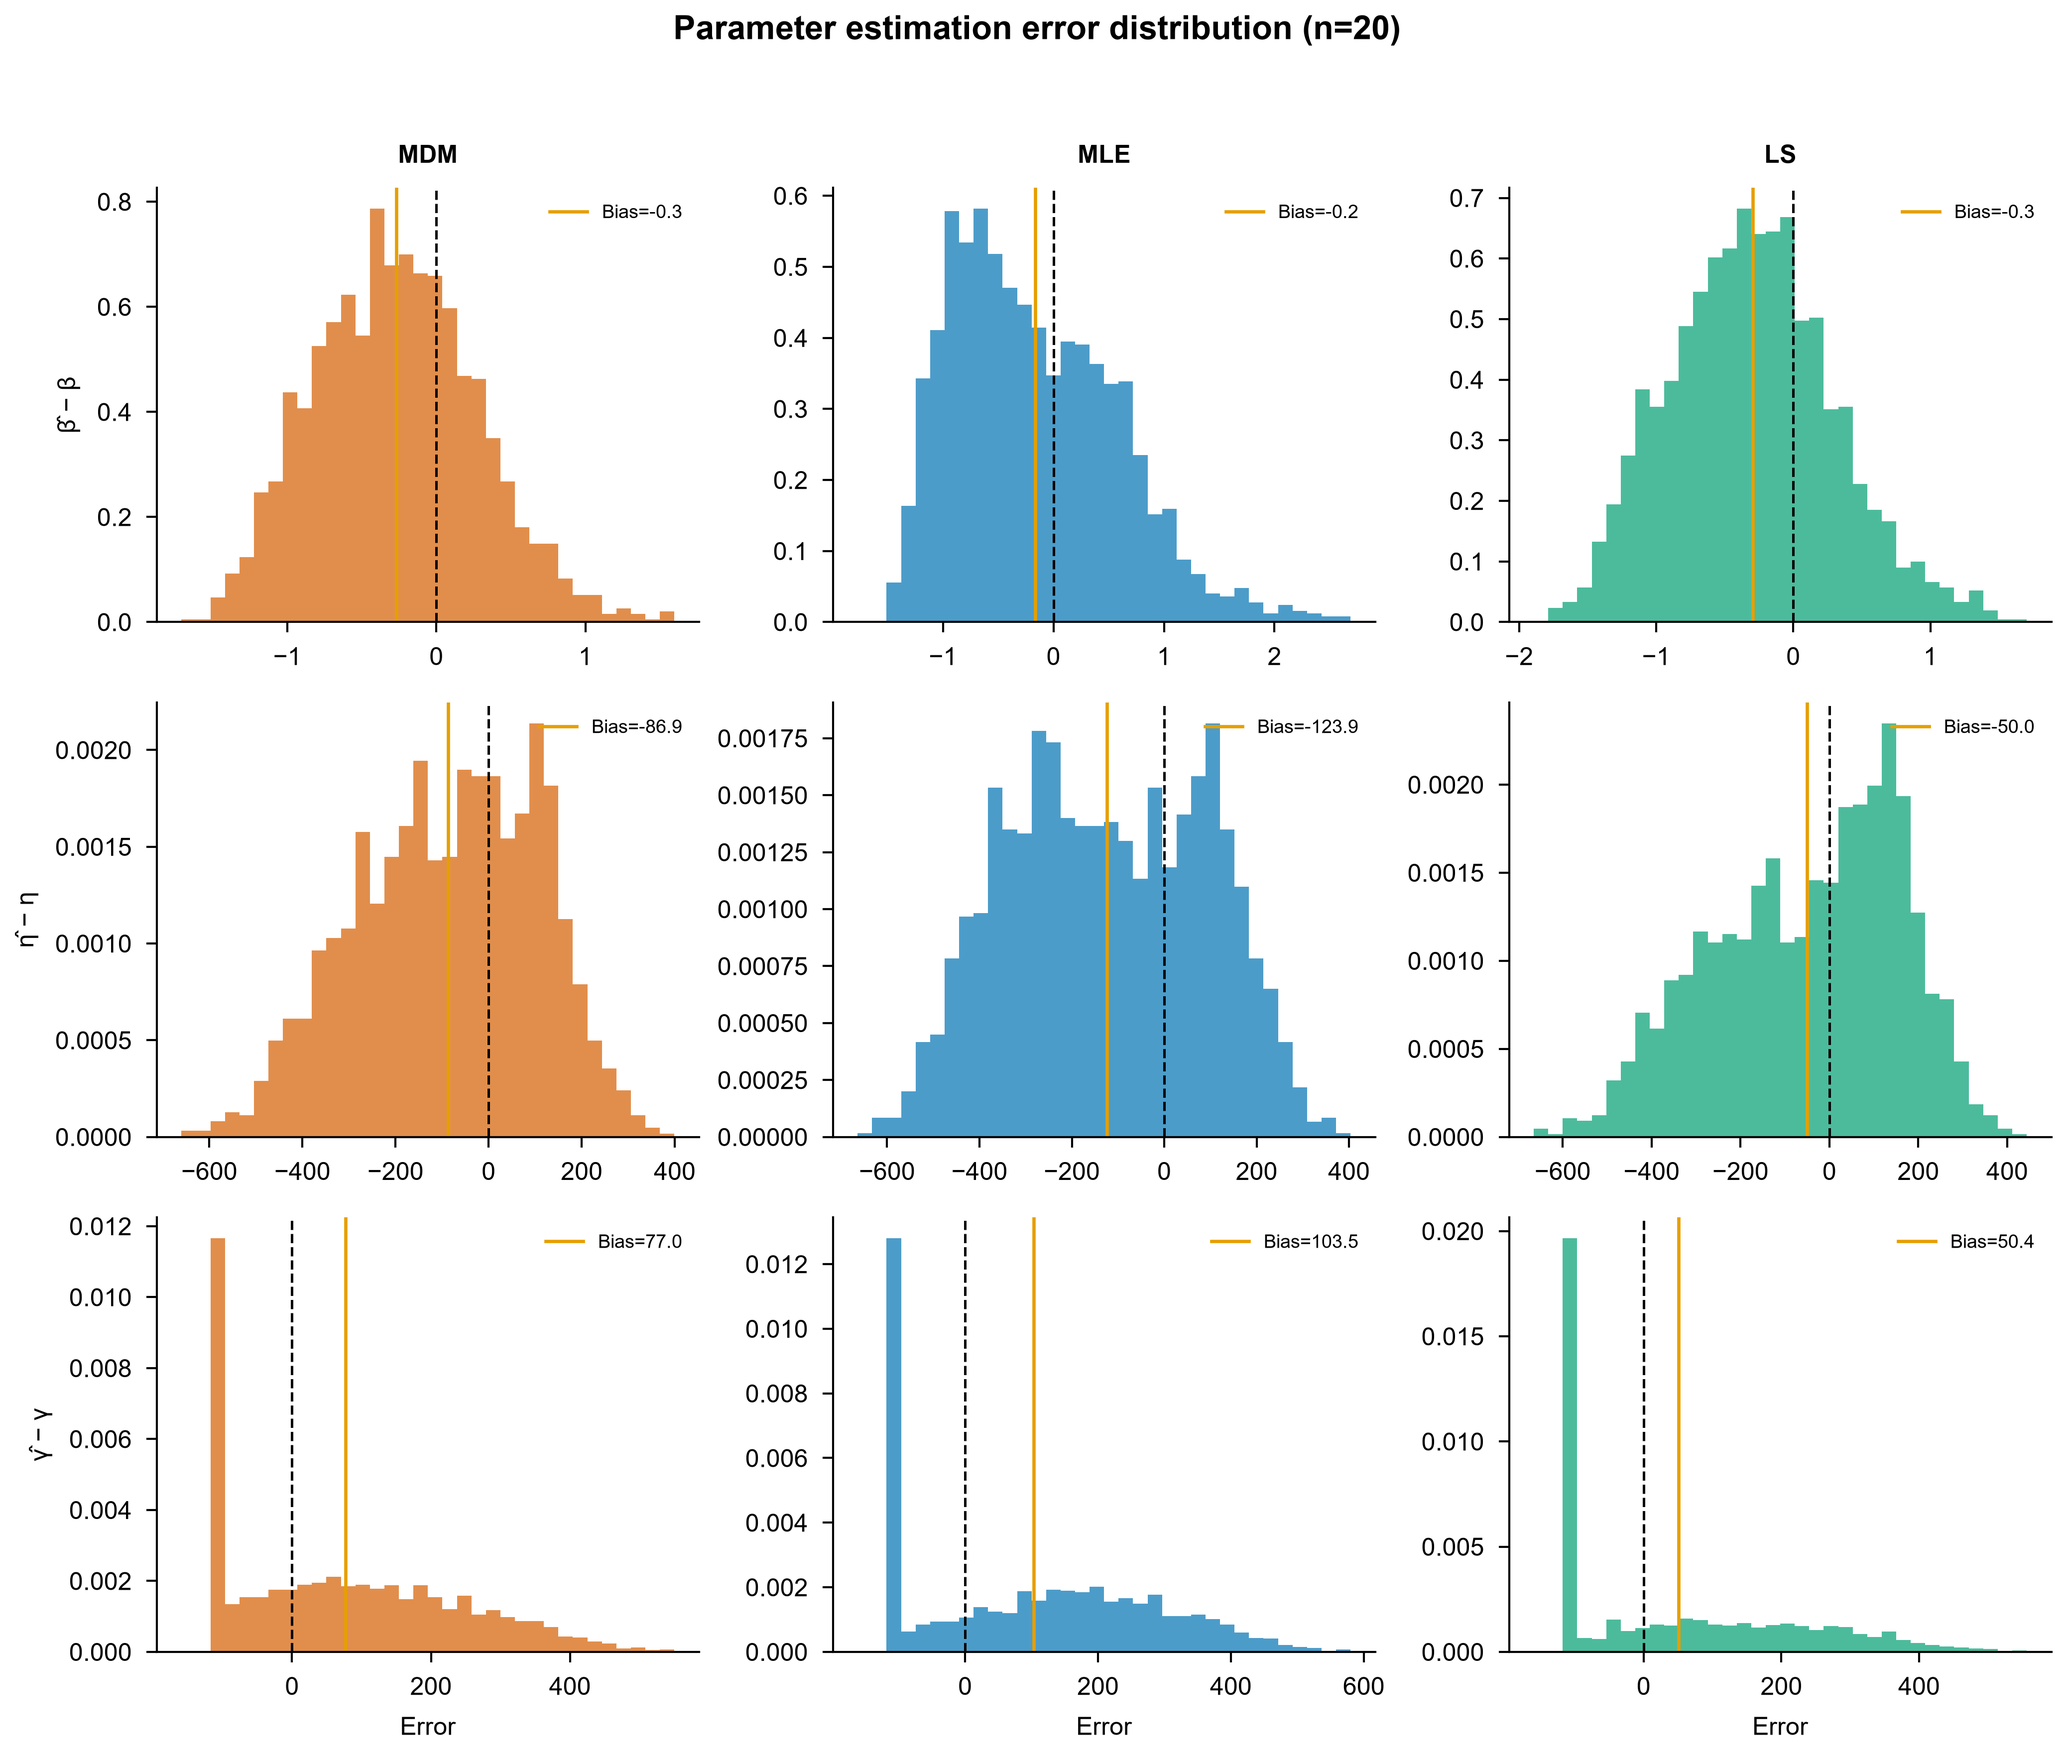
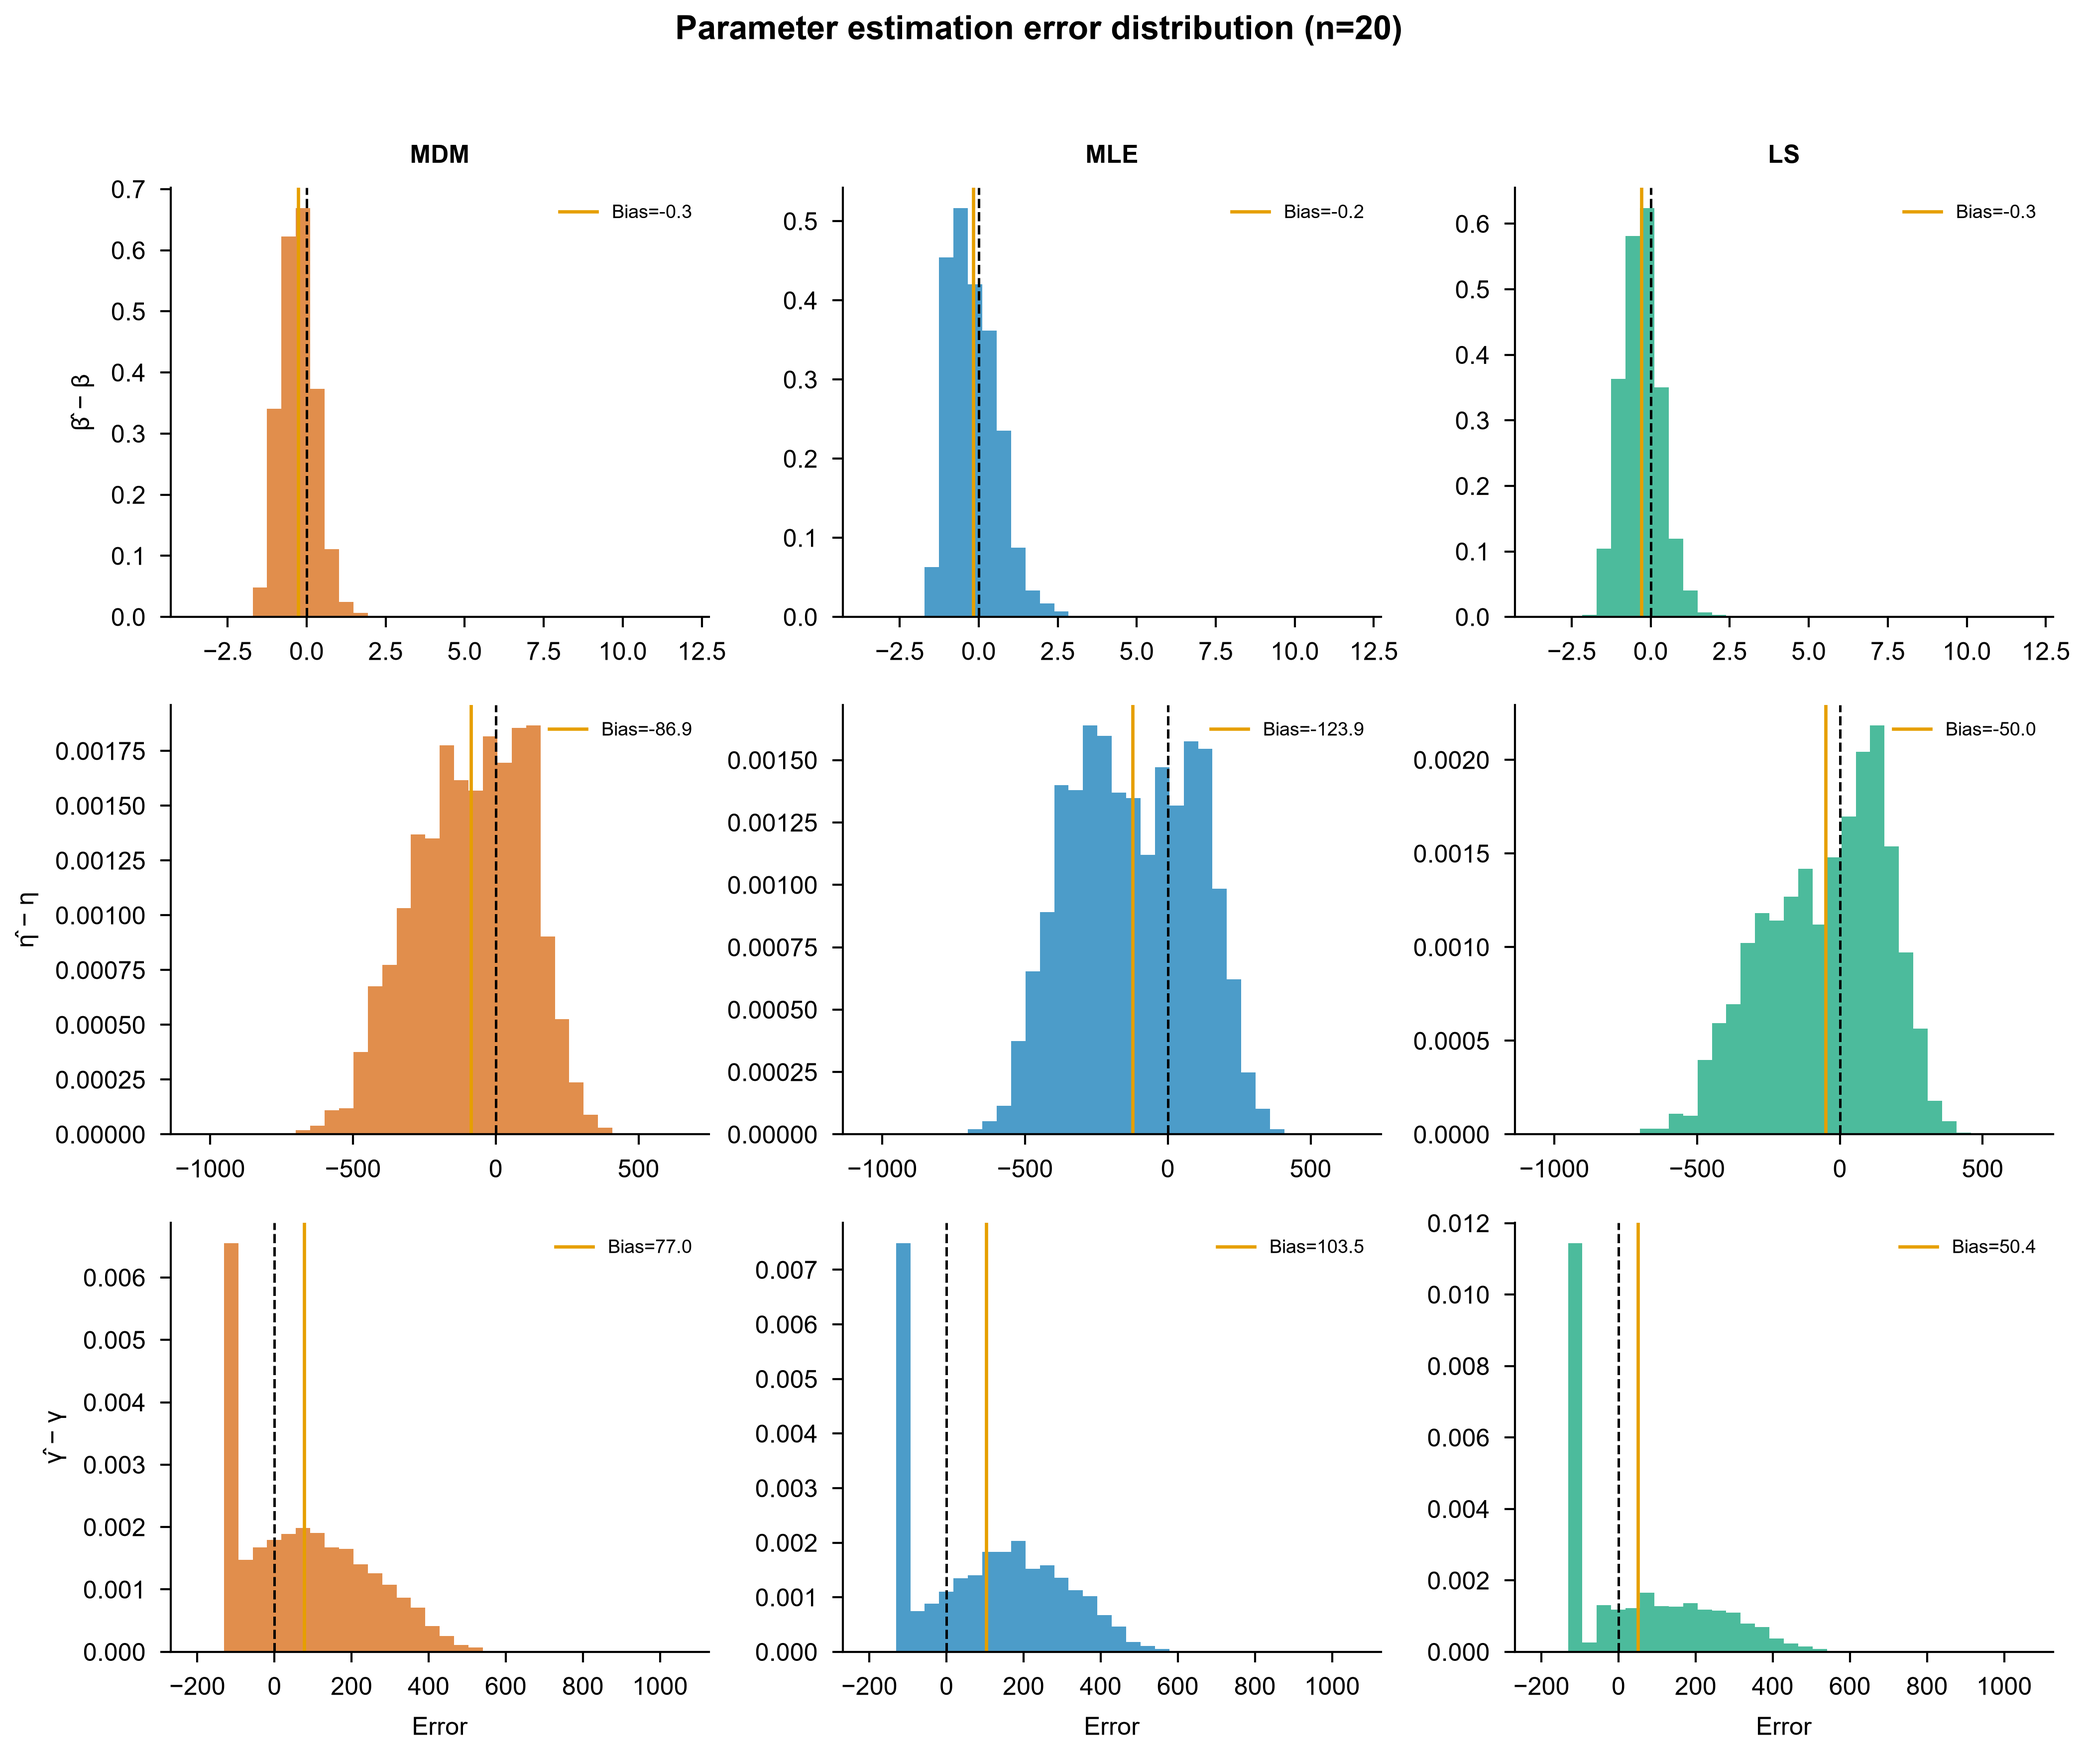
研究04: 统一n=5/n=20误差分布图横坐标范围

diff --git a/docs/research/04基于神经网络的MDM偏移量自适应选取/程序/E01-6_误差分布图.py b/docs/research/04基于神经网络的MDM偏移量自适应选取/程序/E01-6_误差分布图.py
@@ -57,8 +57,17 @@ for key in data:
 
 
 # ============================================================
-# Figure A: 3×3 error distribution histogram (n=5)
+# Figure A: 3×3 error distribution histogram
 # ============================================================
+# Compute shared bin ranges from n=5 (widest)
+shared_ranges = {}
+for pkey in ['err_beta', 'err_eta', 'err_gamma']:
+    all_vals = np.concatenate([data[(5, m)][pkey] for m in methods])
+    lo, hi = np.percentile(all_vals, [0.5, 99.5])
+    margin = (hi - lo) * 0.1
+    shared_ranges[pkey] = (lo - margin, hi + margin)
+
+
 def plot_error_grid(n, filename):
     fig, axes = plt.subplots(3, 3, figsize=(7, 6))
     params = [('err_beta', 'β̂ − β'), ('err_eta', 'η̂ − η'), ('err_gamma', 'γ̂ − γ')]
@@ -75,17 +84,8 @@ def plot_error_grid(n, filename):
                     ax.set_xlabel('Error', fontsize=6)
                 continue
 
-            # Determine bin range
-            if pkey == 'err_gamma':
-                lo, hi = np.percentile(vals, [0.5, 99.5])
-                lo = max(lo, -400)
-                hi = min(hi, 800)
-            elif pkey == 'err_eta':
-                lo, hi = np.percentile(vals, [0.5, 99.5])
-            else:
-                lo, hi = np.percentile(vals, [0.5, 99.5])
-            margin = (hi - lo) * 0.1
-            bins = np.linspace(lo - margin, hi + margin, 35)
+            lo, hi = shared_ranges[pkey]
+            bins = np.linspace(lo, hi, 35)
 
             ax.hist(vals, bins=bins, color=colors_m[m], edgecolor='none',
                     alpha=0.7, density=True)
